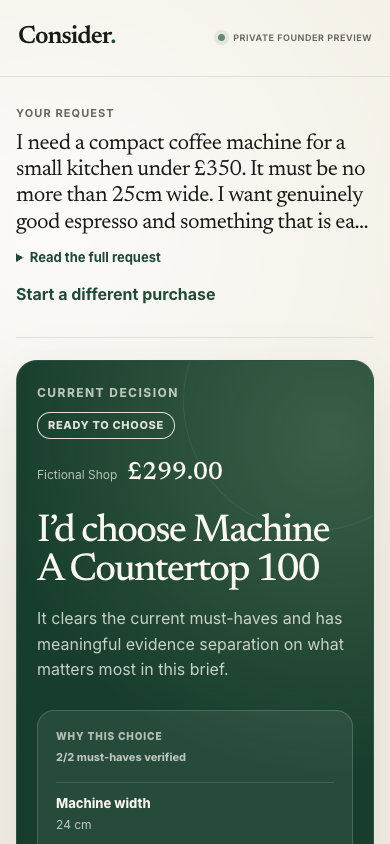
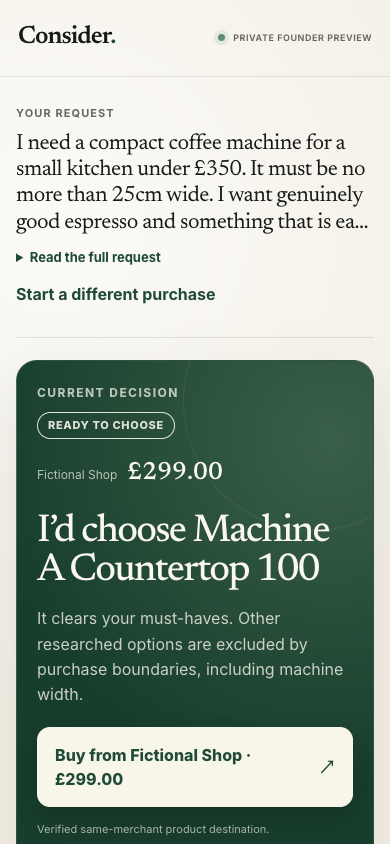
Clarify founder purchase actions and preserve refinement conflicts

Changed region(s): [[0.0923, 0.7085, 0.9231, 1.0]]

diff --git a/src/features/live-shopping/live-shopping.tsx b/src/features/live-shopping/live-shopping.tsx
@@ -350,6 +350,39 @@ function CurrentDecisionSummary({
           {decision.explanation}
         </p>
 
+        {decision.purchase !== null ? (
+          <div className={styles.decisionPurchase}>
+            <a
+              href={decision.purchase.destinationUrl}
+              target="_blank"
+              rel="noreferrer"
+              className={
+                decision.purchase.state === "direct"
+                  ? styles.decisionBuyButton
+                  : styles.decisionOffersButton
+              }
+            >
+              <span>
+                {decision.purchase.label}
+                {decision.purchase.priceText !== null
+                  ? " · " + decision.purchase.priceText
+                  : ""}
+              </span>
+              <span aria-hidden="true">↗</span>
+            </a>
+            {decision.purchase.state === "direct" ? (
+              <p>Verified same-merchant product destination.</p>
+            ) : decision.purchase.state === "checking" ? (
+              <p>
+                Checking for the exact retailer page. Google Shopping remains
+                available.
+              </p>
+            ) : (
+              <p>Fallback shopping result · verify the seller and offer.</p>
+            )}
+          </div>
+        ) : null}
+
         {leader !== undefined || watch !== null ? (
           <div className={styles.decisionSummaryGrid}>
             {leader !== undefined ? (
@@ -430,39 +463,6 @@ function CurrentDecisionSummary({
               <span className={styles.decisionCheckState}>
                 Checked · still unresolved
               </span>
-            )}
-          </div>
-        ) : null}
-
-        {decision.purchase !== null ? (
-          <div className={styles.decisionPurchase}>
-            <a
-              href={decision.purchase.destinationUrl}
-              target="_blank"
-              rel="noreferrer"
-              className={
-                decision.purchase.state === "direct"
-                  ? styles.decisionBuyButton
-                  : styles.decisionOffersButton
-              }
-            >
-              <span>
-                {decision.purchase.label}
-                {decision.purchase.priceText !== null
-                  ? " · " + decision.purchase.priceText
-                  : ""}
-              </span>
-              <span aria-hidden="true">↗</span>
-            </a>
-            {decision.purchase.state === "direct" ? (
-              <p>Verified same-merchant product destination.</p>
-            ) : decision.purchase.state === "checking" ? (
-              <p>
-                Checking for the exact retailer page. Google Shopping remains
-                available.
-              </p>
-            ) : (
-              <p>Fallback shopping result · verify the seller and offer.</p>
             )}
           </div>
         ) : null}

diff --git a/src/features/product-understanding/decision-support.ts b/src/features/product-understanding/decision-support.ts
@@ -468,6 +468,18 @@ export function synthesizeCurrentDecision(options: {
     };
   }
 
+  const excludedBoundary = soleEligible
+    ? options.items.find(
+        (item) =>
+          item.strength === "hard" &&
+          options.assessments.some(
+            (assessment) =>
+              assessment.candidateListingId !== leader.listing.id &&
+              assessment.criterionId === item.criterionId &&
+              assessment.status === "conflicts",
+          ),
+      )
+    : undefined;
   return {
     state: "ready_to_choose",
     recommendationLevel: "ready",
@@ -475,7 +487,9 @@ export function synthesizeCurrentDecision(options: {
     alternativeCandidateListingId,
     headline: `I’d choose ${leader.listing.title}`,
     explanation:
-      "It clears the current must-haves and has meaningful evidence separation on what matters most in this brief.",
+      excludedBoundary !== undefined
+        ? `It clears your must-haves. Other researched options are excluded by purchase boundaries, including ${excludedBoundary.conceptLabel.toLocaleLowerCase("en-GB")}.`
+        : "It clears the current must-haves and has meaningful evidence separation on what matters most in this brief.",
     keyReasons: supportedReasons,
     keyTradeoff: null,
     blockingGap: null,

diff --git a/src/app/api/live-shopping/route.test.ts b/src/app/api/live-shopping/route.test.ts
@@ -1,0 +1,28 @@
+import { expect, it, vi } from "vitest";
+import { StaleTaskRevisionError } from "@/domain/shopping-state/errors";
+
+const runtime = vi.hoisted(() => ({ createLiveShoppingDependencies: vi.fn() }));
+vi.mock("@/features/live-shopping/runtime", () => runtime);
+import { POST } from "./route";
+
+it("returns a recoverable authority conflict when research races a refinement", async () => {
+  runtime.createLiveShoppingDependencies.mockRejectedValueOnce(
+    new StaleTaskRevisionError("private-task-id", 1n, 2n),
+  );
+  const result = await POST(
+    new Request("http://localhost/api/live-shopping", {
+      method: "POST",
+      headers: { "Content-Type": "application/json" },
+      body: JSON.stringify({
+        operation: "deepen_research",
+        sessionId: "00000000-0000-4000-8000-000000000001",
+      }),
+    }),
+  );
+  expect(result.status).toBe(409);
+  expect(result.headers.get("Cache-Control")).toBe("no-store");
+  const body = await result.json();
+  expect(body.error.code).toBe("stale_authority");
+  expect(body.error.message).toContain("Refresh");
+  expect(body.error.message).not.toContain("private-task-id");
+});

diff --git a/src/app/api/live-shopping/route.ts b/src/app/api/live-shopping/route.ts
@@ -1,4 +1,5 @@
 import { ZodError } from "zod";
+import { StaleTaskRevisionError } from "@/domain/shopping-state/errors";
 import { StaleRetrievalSearchActionError } from "@/features/retrieval-spike/context-from-persisted-state";
 import { StaleSearchRunAuthorityError } from "@/features/retrieval-spike/retrieval-orchestrator";
 import {
@@ -103,14 +104,15 @@ function safeError(error: unknown) {
   }
   if (
     error instanceof StaleRetrievalSearchActionError ||
-    error instanceof StaleSearchRunAuthorityError
+    error instanceof StaleSearchRunAuthorityError ||
+    error instanceof StaleTaskRevisionError
   ) {
     return response(
       {
         error: {
           code: "stale_authority",
           message:
-            "The shopping brief changed before this search could continue. Start a fresh task.",
+            "Your priorities changed before this operation finished. Refresh to continue with your current brief; your saved products are preserved.",
         },
       },
       409,

diff --git a/src/features/product-understanding/current-decision.test.ts b/src/features/product-understanding/current-decision.test.ts
@@ -923,5 +923,8 @@ describe("founder-category Current Decision journeys", () => {
       leadingCandidateListingId: compact.id,
     });
     expect(result.currentDecision.leadingCandidateListingId).not.toBe(wide.id);
+    expect(result.currentDecision.explanation).toContain(
+      `including ${widthLabel.toLocaleLowerCase("en-GB")}`,
+    );
   });
 });

diff --git a/docs/plans/v0-09-founder-journeys.md b/docs/plans/v0-09-founder-journeys.md
@@ -21,6 +21,9 @@ transport with those application functions over PostgreSQL; the exact refinement
 is a labelled V0-04 seeding seam, not a test of natural-language interpretation.
 Existing browser tests separately cover normal fixture-backed API transport.
 
+The first coherent source-grounded milestone is `42af6d6`; subsequent
+presentation/error-classification changes do not alter the corpus or authority.
+
 ## Flagship mouse
 
 FLAGSHIP DETERMINISTIC MOUSE LOOP CLOSED
@@ -73,6 +76,13 @@ stability, plus a two-listing comparison (including a deliberately excluded row
 where useful). Bounded missing evidence remains missing; source content is not
 assumed to have been assessed merely because it exists in the fixture page.
 
+Actual current-decision projections have `alternativeCandidateListingId: null`
+in all four journeys. Mouse B and Chair A remain factual eligible comparators;
+they are not promoted as recommendation alternatives. In particular, Chair A's
+within-target price is visible in comparison, but does not currently become an
+explicit budget-versus-benefit alternative in the decision summary. This is a
+bounded product follow-up, not evidence that a second recommendation was shown.
+
 ## General defects corrected
 
 - Supported conditional stretch lost its trade-off in decision synthesis. Both
@@ -90,6 +100,11 @@ assumed to have been assessed merely because it exists in the fixture page.
   failure. `StaleTaskRevisionError` now returns sanitized `409 stale_authority`
   with refresh guidance, not an instruction to abandon the saved task. A focused
   route regression protects that classification; it does not permit stale writes.
+- Ready purchase actions were below a lengthy evidence panel. They now follow
+  the decision explanation, with the stretch trade-off still visible before
+  the click. Provisional decisions still have no primary buy action. A sole
+  eligible decision names an evidenced excluded hard boundary where available,
+  rather than relying only on generic separation wording.
 
 ## Browser review and limitations
 
@@ -99,7 +114,52 @@ purchase semantics, comparison and refresh. Screenshots live in
 bounded check: “Checked · still unresolved” is truthful and prevents duplicate
 research. It does not claim that the missing hard fact was resolved.
 
+Screenshot inspection confirms clear ready/trade-off/provisional state labels,
+visible budget premium, readable 390px layout, and no horizontal overflow. The
+request remains collapsible; comparison stays below the current decision. Missing
+product images remain honestly labelled rather than fabricated. The long source
+and comparison sections still need shopper usability validation, not a redesign
+in this run.
+
 This demonstrates deterministic product breadth, not live-provider extraction
 quality or real merchant purchase success. Fictional destinations are never
-opened. Full gate results and remaining review items are recorded below when
-verification finishes.
+opened.
+
+## Verification
+
+- Focused source-backed persisted journeys: 10/10 (symmetric and differentiated
+  mouse, three existing founder paths, live application composition, and three
+  new differentiated category paths).
+- Full PostgreSQL suite: 167/168; only the allowed local PostgreSQL
+  `17.11 (Homebrew)` versus pinned `17.6` version assertion fails. Disposable
+  database setup applies all migrations from empty, including 0018; all other
+  migration and structural tests pass. No migration was changed.
+- Focused final decision/component/route regression: 37/37.
+- Final `pnpm check`: 472/472 tests in 51 files, formatting, lint, typecheck and
+  production build pass. Final Playwright against the production fixture server:
+  12/12, including all four new persisted journeys and refreshed screenshots.
+  The three differentiated category DB tests also pass after the final wording
+  change (3/3).
+- `db:generate`: no schema changes. Diff audit and added-line secret/private-path
+  scans clean. Source-corpus/decision guard review found no actionable correctness
+  risks. Tests initially interrupted by long host execution gaps were rerun;
+  timeout values and acceptance assertions were not weakened.
+- The pnpm launcher emits a Node 24.19.0 engine-range warning; the actual shell
+  and `pnpm exec node` both report Node 22.18.0 at `/usr/local/bin/node`.
+- Checkpoint 1 SHA256:
[1 lines of base64/hex data omitted]
+  Checkpoint 2 SHA256:
[1 lines of base64/hex data omitted]
+  Both unchanged. No Checkpoint 3, proof marker or proof result created.
+
+## Verdict and next product move
+
+Flagship deterministic mouse loop: CLOSED. Cross-category founder engine:
+ACCEPT WITH BOUNDED FOLLOW-UP. Overall product-experience lane: ACCEPT WITH
+BOUNDED FOLLOW-UP. These are implementation self-assessments for independent
+review, not release acceptance.
+
+The next single product move is an explicit evidence-backed budget-versus-benefit
+alternative in the decision summary, beginning with the chair: make the £245
+within-target option's trade against the £330 supported stretch understandable
+without arbitrary cheaper-is-better scoring. Do not implement it in this run.

diff --git a/docs/plans/founder-mvp-progress.md b/docs/plans/founder-mvp-progress.md
@@ -400,11 +400,32 @@ version assertion. Twelve production fixture screenshots include desktop and
 390px Decision Evolution. Provider calls remain zero and proof remains
 unconsumed. These are implementation checks, not independent acceptance.
 
-Important product gap: the controlled mouse projection proves tie to ready
-Mouse A, but the actual guarded persisted mouse remains tied because existing
-long-workday comfort assessment requires personal-fit verification. Review-
-quality prose also remains conservatively unadmitted. Neither policy was
-weakened. See [Decision Evolution evidence](v0-09-decision-evolution.md).
+The earlier controlled-only mouse gap is superseded by the source-grounded
+founder journeys below. The generic symmetric corpus correctly remains tied;
+the differentiated corpus now breaks the tie through actual persisted evidence
+and guarded soft-comfort assessment. Hard personal-fit conservatism remains.
+See [Decision Evolution evidence](v0-09-decision-evolution.md) for the earlier
+checkpoint rather than treating its former gap as current status.
+
+#### Four-category deterministic founder journeys
+
+Product continuation from `7c66942465c2f0a74f27dc64042bf071e49e74c5`, with the
+source-grounded milestone committed at `42af6d6`. FLAGSHIP DETERMINISTIC MOUSE
+LOOP CLOSED: symmetric evidence stays tied; differentiated fetched evidence plus
+the exact Reviews/Comfort refinement yields ready Mouse A, reused evidence and
+grounded tie-broken Decision Evolution. The mouse corpus is frozen.
+
+The same real PostgreSQL/source-page/assessment/application path now gives chair
+`leader_with_tradeoff`, vacuum `leader_needs_verification`, and coffee
+`ready_to_choose` with the oversize candidate excluded. No final assessments are
+seeded. Corrections preserve supported stretch-price visibility, current
+reassessment readiness and explicit untested-comfort uncertainty. Browser-backed
+save/comparison/refinement/reject/undo and desktop/mobile evidence are recorded in
+[the founder journey matrix](v0-09-founder-journeys.md).
+
+These remain deterministic implementation checks, not independent acceptance or
+live-provider proof. Zero external provider calls; checkpoints 1/2 unchanged;
+Checkpoint 3, the product proof marker and result remain absent.
 
 The separate `codex/v0-09-product-completion` worktree preserves the existing
 provider-proof artifacts while product work continues deterministically from
